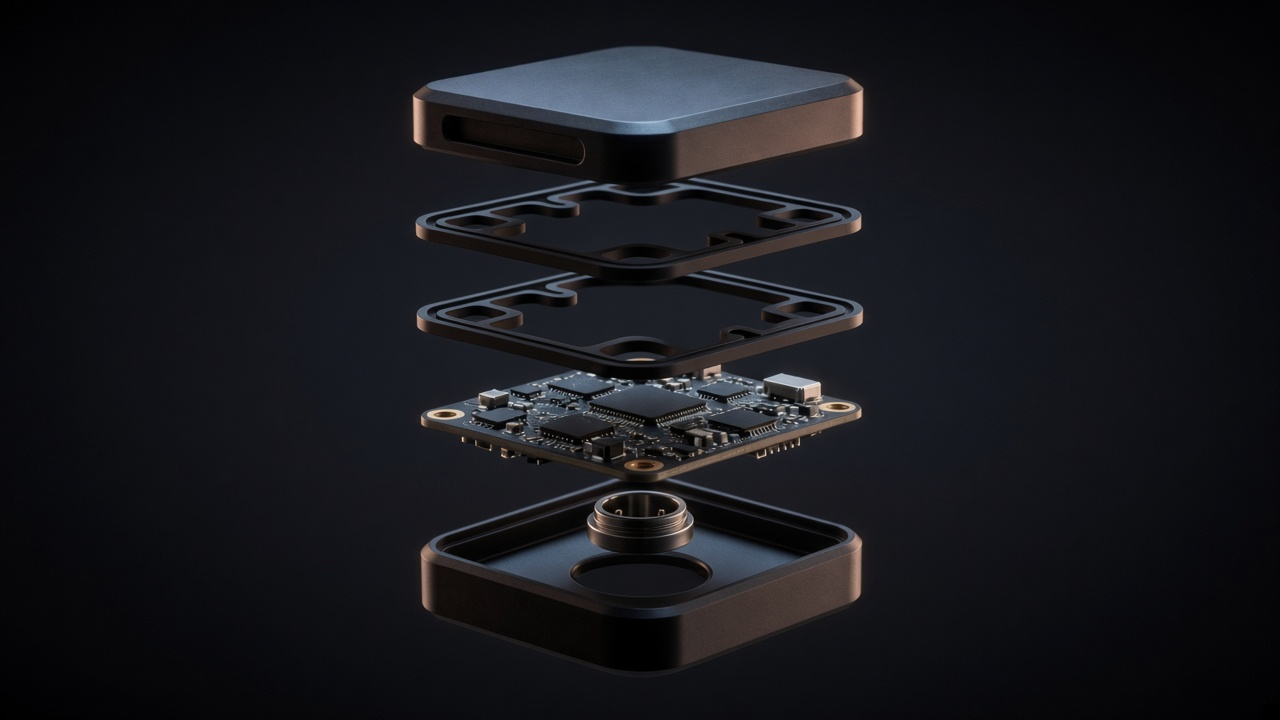
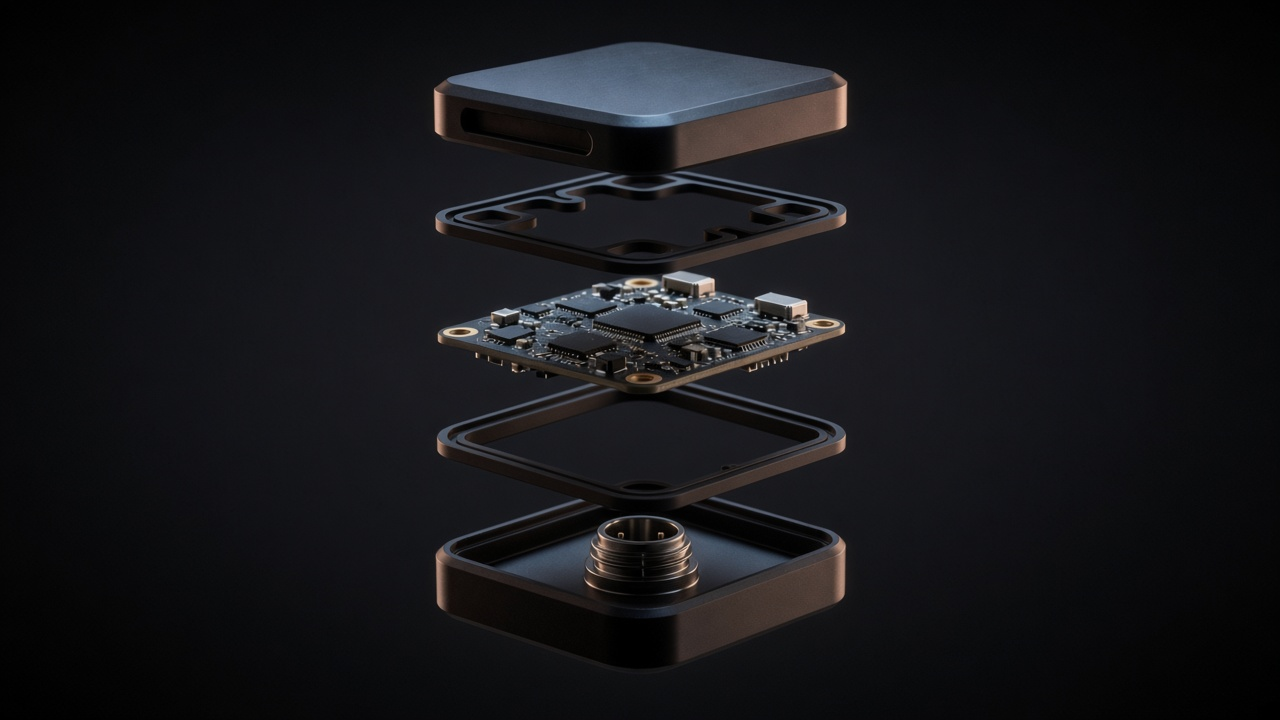
Nest the exploded stack in the bottom tray.
The connector is formed into the housing, and the lid, gasket, board, and frame share that footprint.

diff --git a/index.html b/index.html
@@ -131,7 +131,7 @@
           </dl>
           <div class="inside">
             <figure>
-              <img src="assets/images/exploded.jpg" width="1280" height="720" alt="Exploded view of a black instrument: lid, gasket, frame, circuit board, and a connector that passes through the bottom housing.">
+              <img src="assets/images/exploded.jpg" width="1280" height="720" alt="Exploded view of a black instrument: lid, gasket, circuit board, frame, and a bottom housing with the connector formed into it.">
               <figcaption>
                 <p class="kicker">Mechanical stack</p>
                 <p>The housing, the circuit, and the firmware are chosen together.</p>
